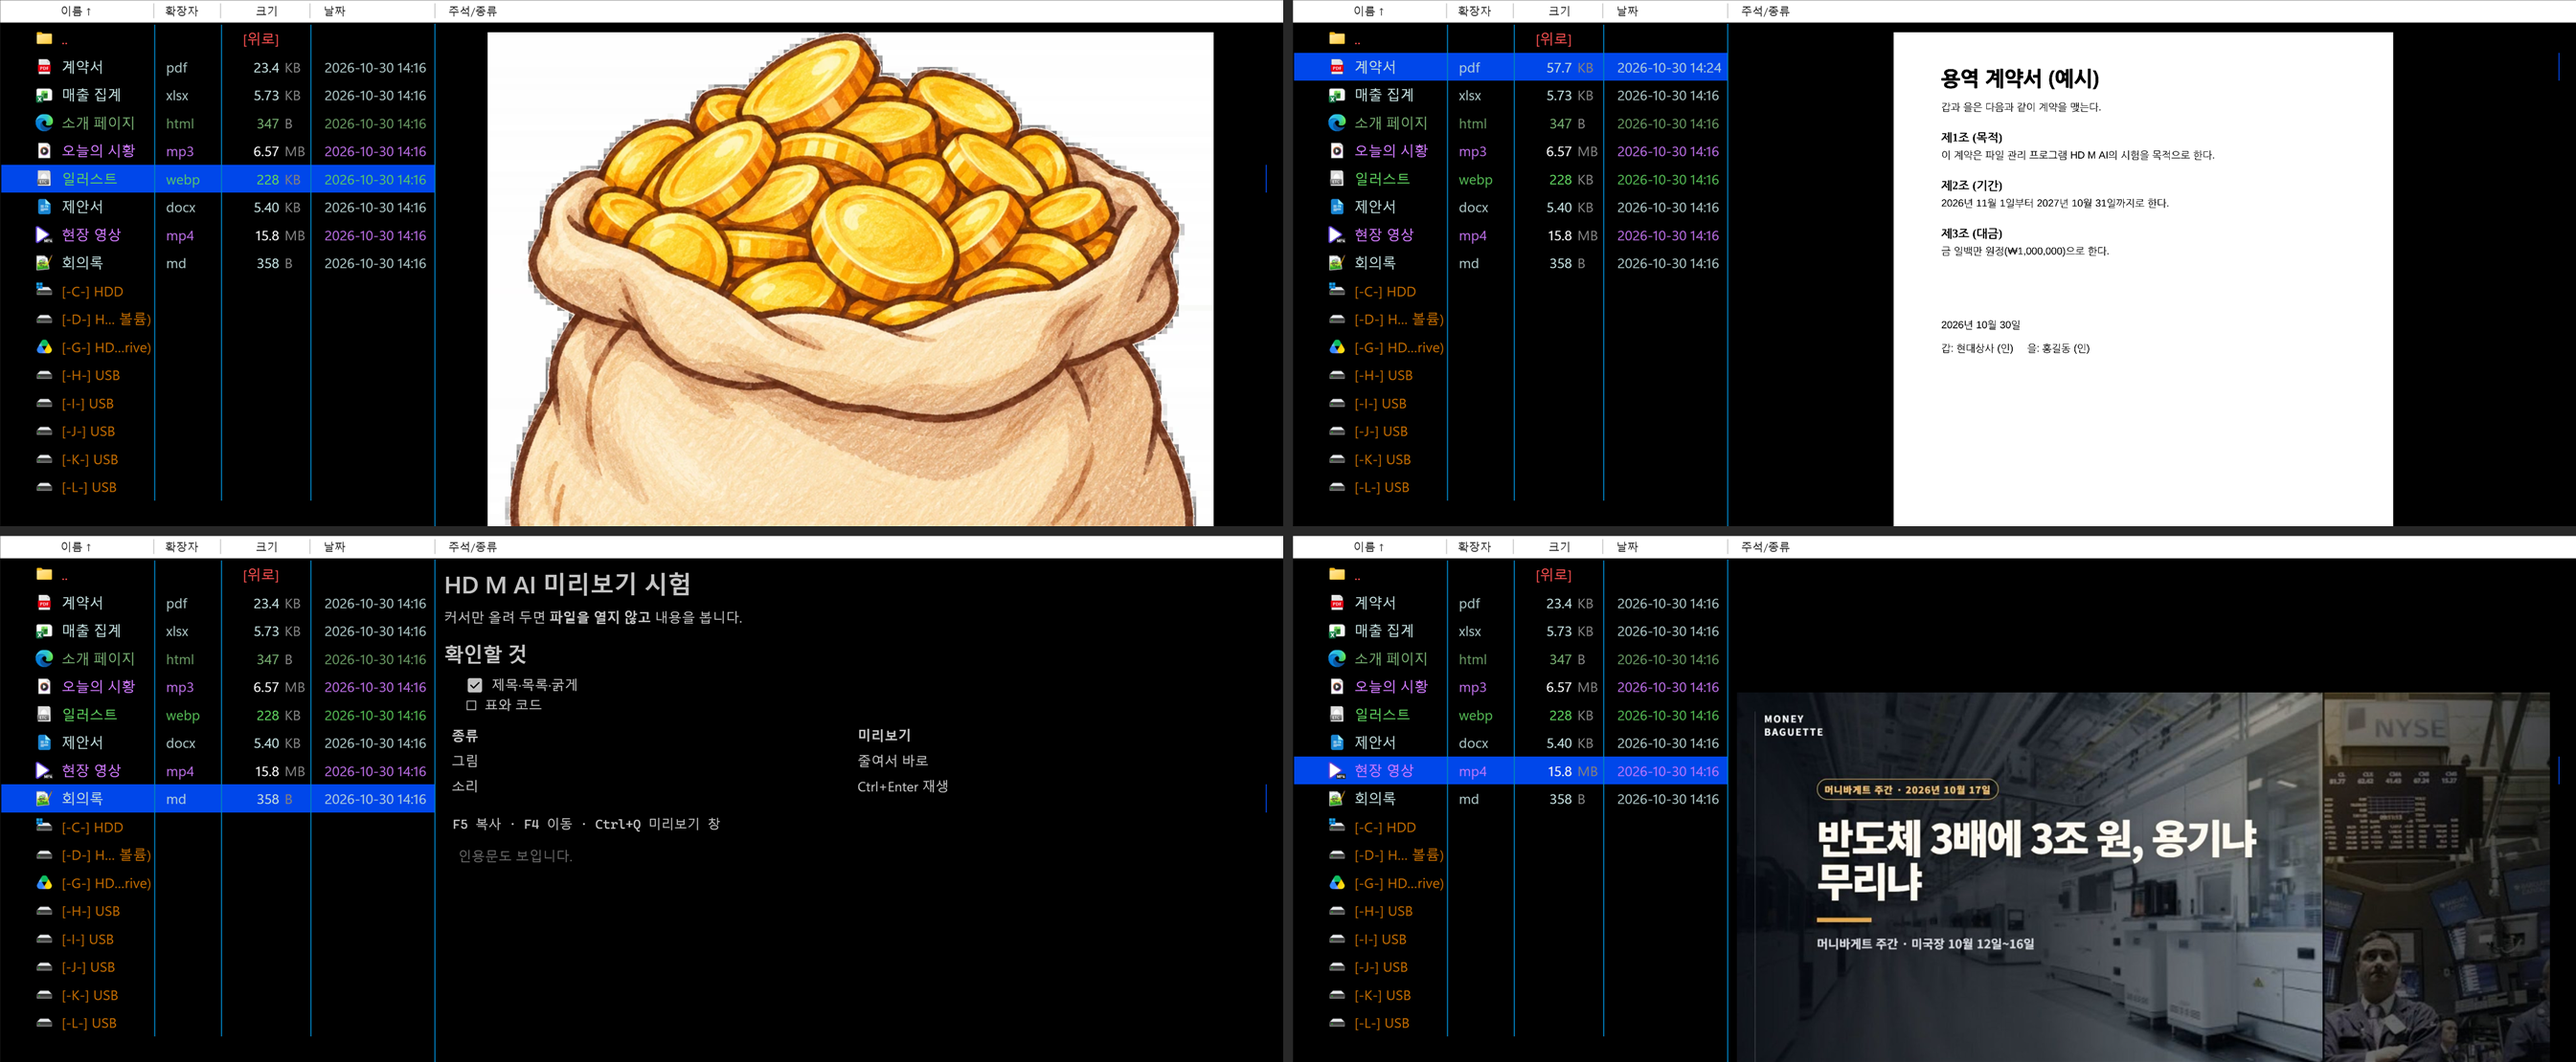
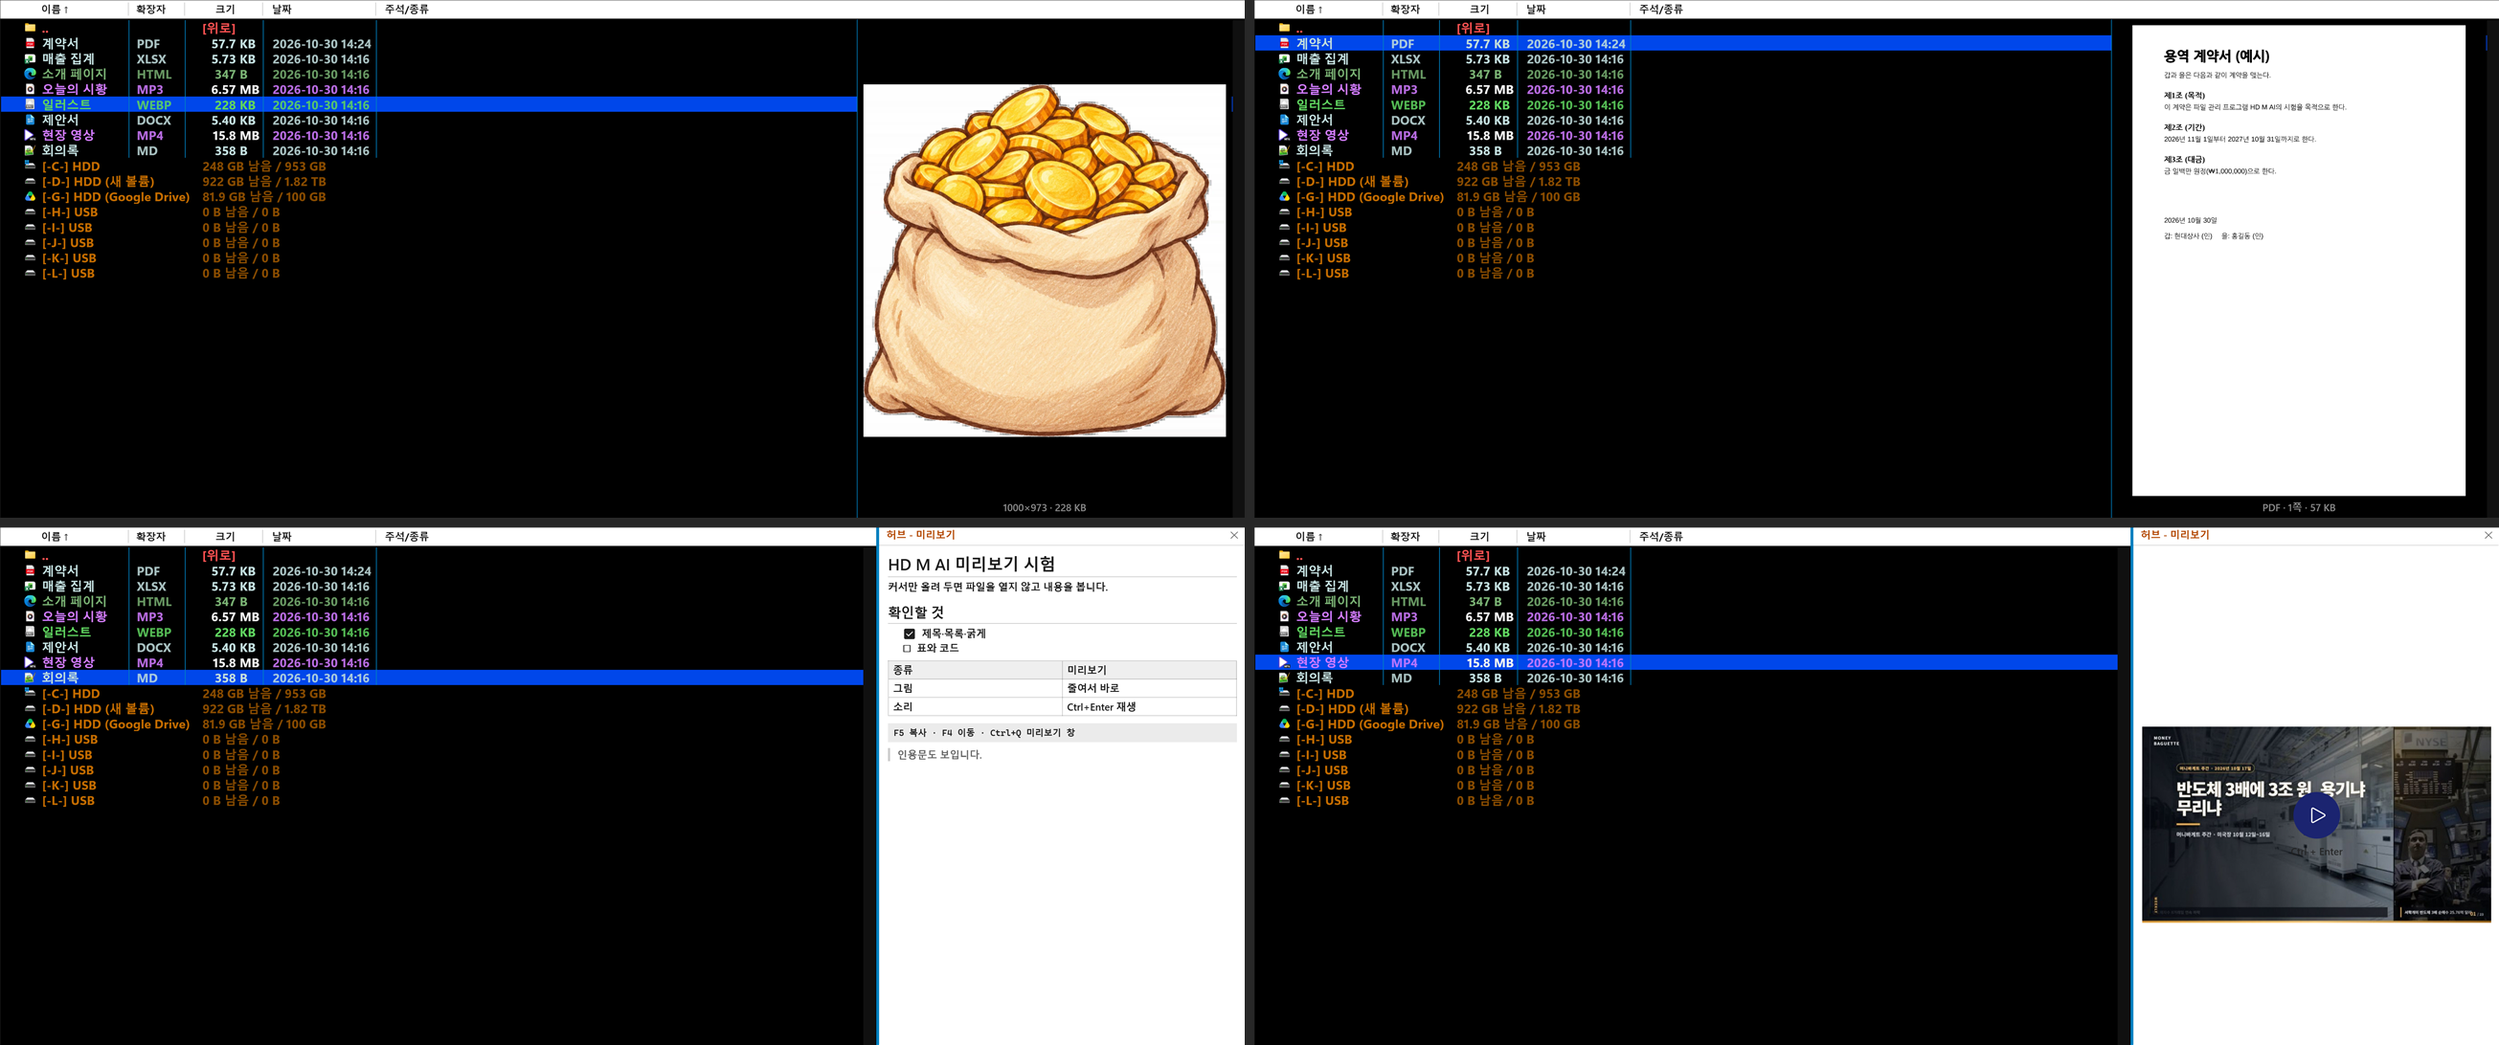
README: 미리보기 화면을 지금 설정 기준으로(목록 옆·허브, 한 번에 하나)

diff --git a/README.md b/README.md
@@ -30,9 +30,9 @@ Mdir For Windows 4.5.591 Beta를 참고하여 2026년에 맞게 재작성한 프
 **파일을 열어 보는 시간이 업무에서 사라집니다.**
 목록에서 커서만 올려 두면 그 파일이 바로 옆에 보입니다. 더블클릭하고, 프로그램이 뜨길 기다리고, 아니면 닫고, 다음 파일을 다시 여는 일이 없습니다. 방향키로 훑기만 하면 됩니다.
 
-![미리보기 — 그림·PDF·마크다운·동영상](screenshots/5-preview.png)
+![미리보기 — 목록 옆과 허브 칸](screenshots/5-preview.png)
 
-*왼쪽 위부터 그림·PDF·마크다운·동영상. 화면의 파일은 설명용 예시입니다.*
+*위: 목록 옆 미리보기(그림·PDF). 아래: 허브의 미리보기 칸(마크다운·동영상). 미리보기는 한 번에 하나만 켜집니다 — 기본은 허브 칸이고, 목록 옆으로 바꾸면 허브 칸은 저절로 꺼집니다. 화면의 파일은 설명용 예시입니다.*
 
 | 종류 | 보이는 것 |
 |---|---|
